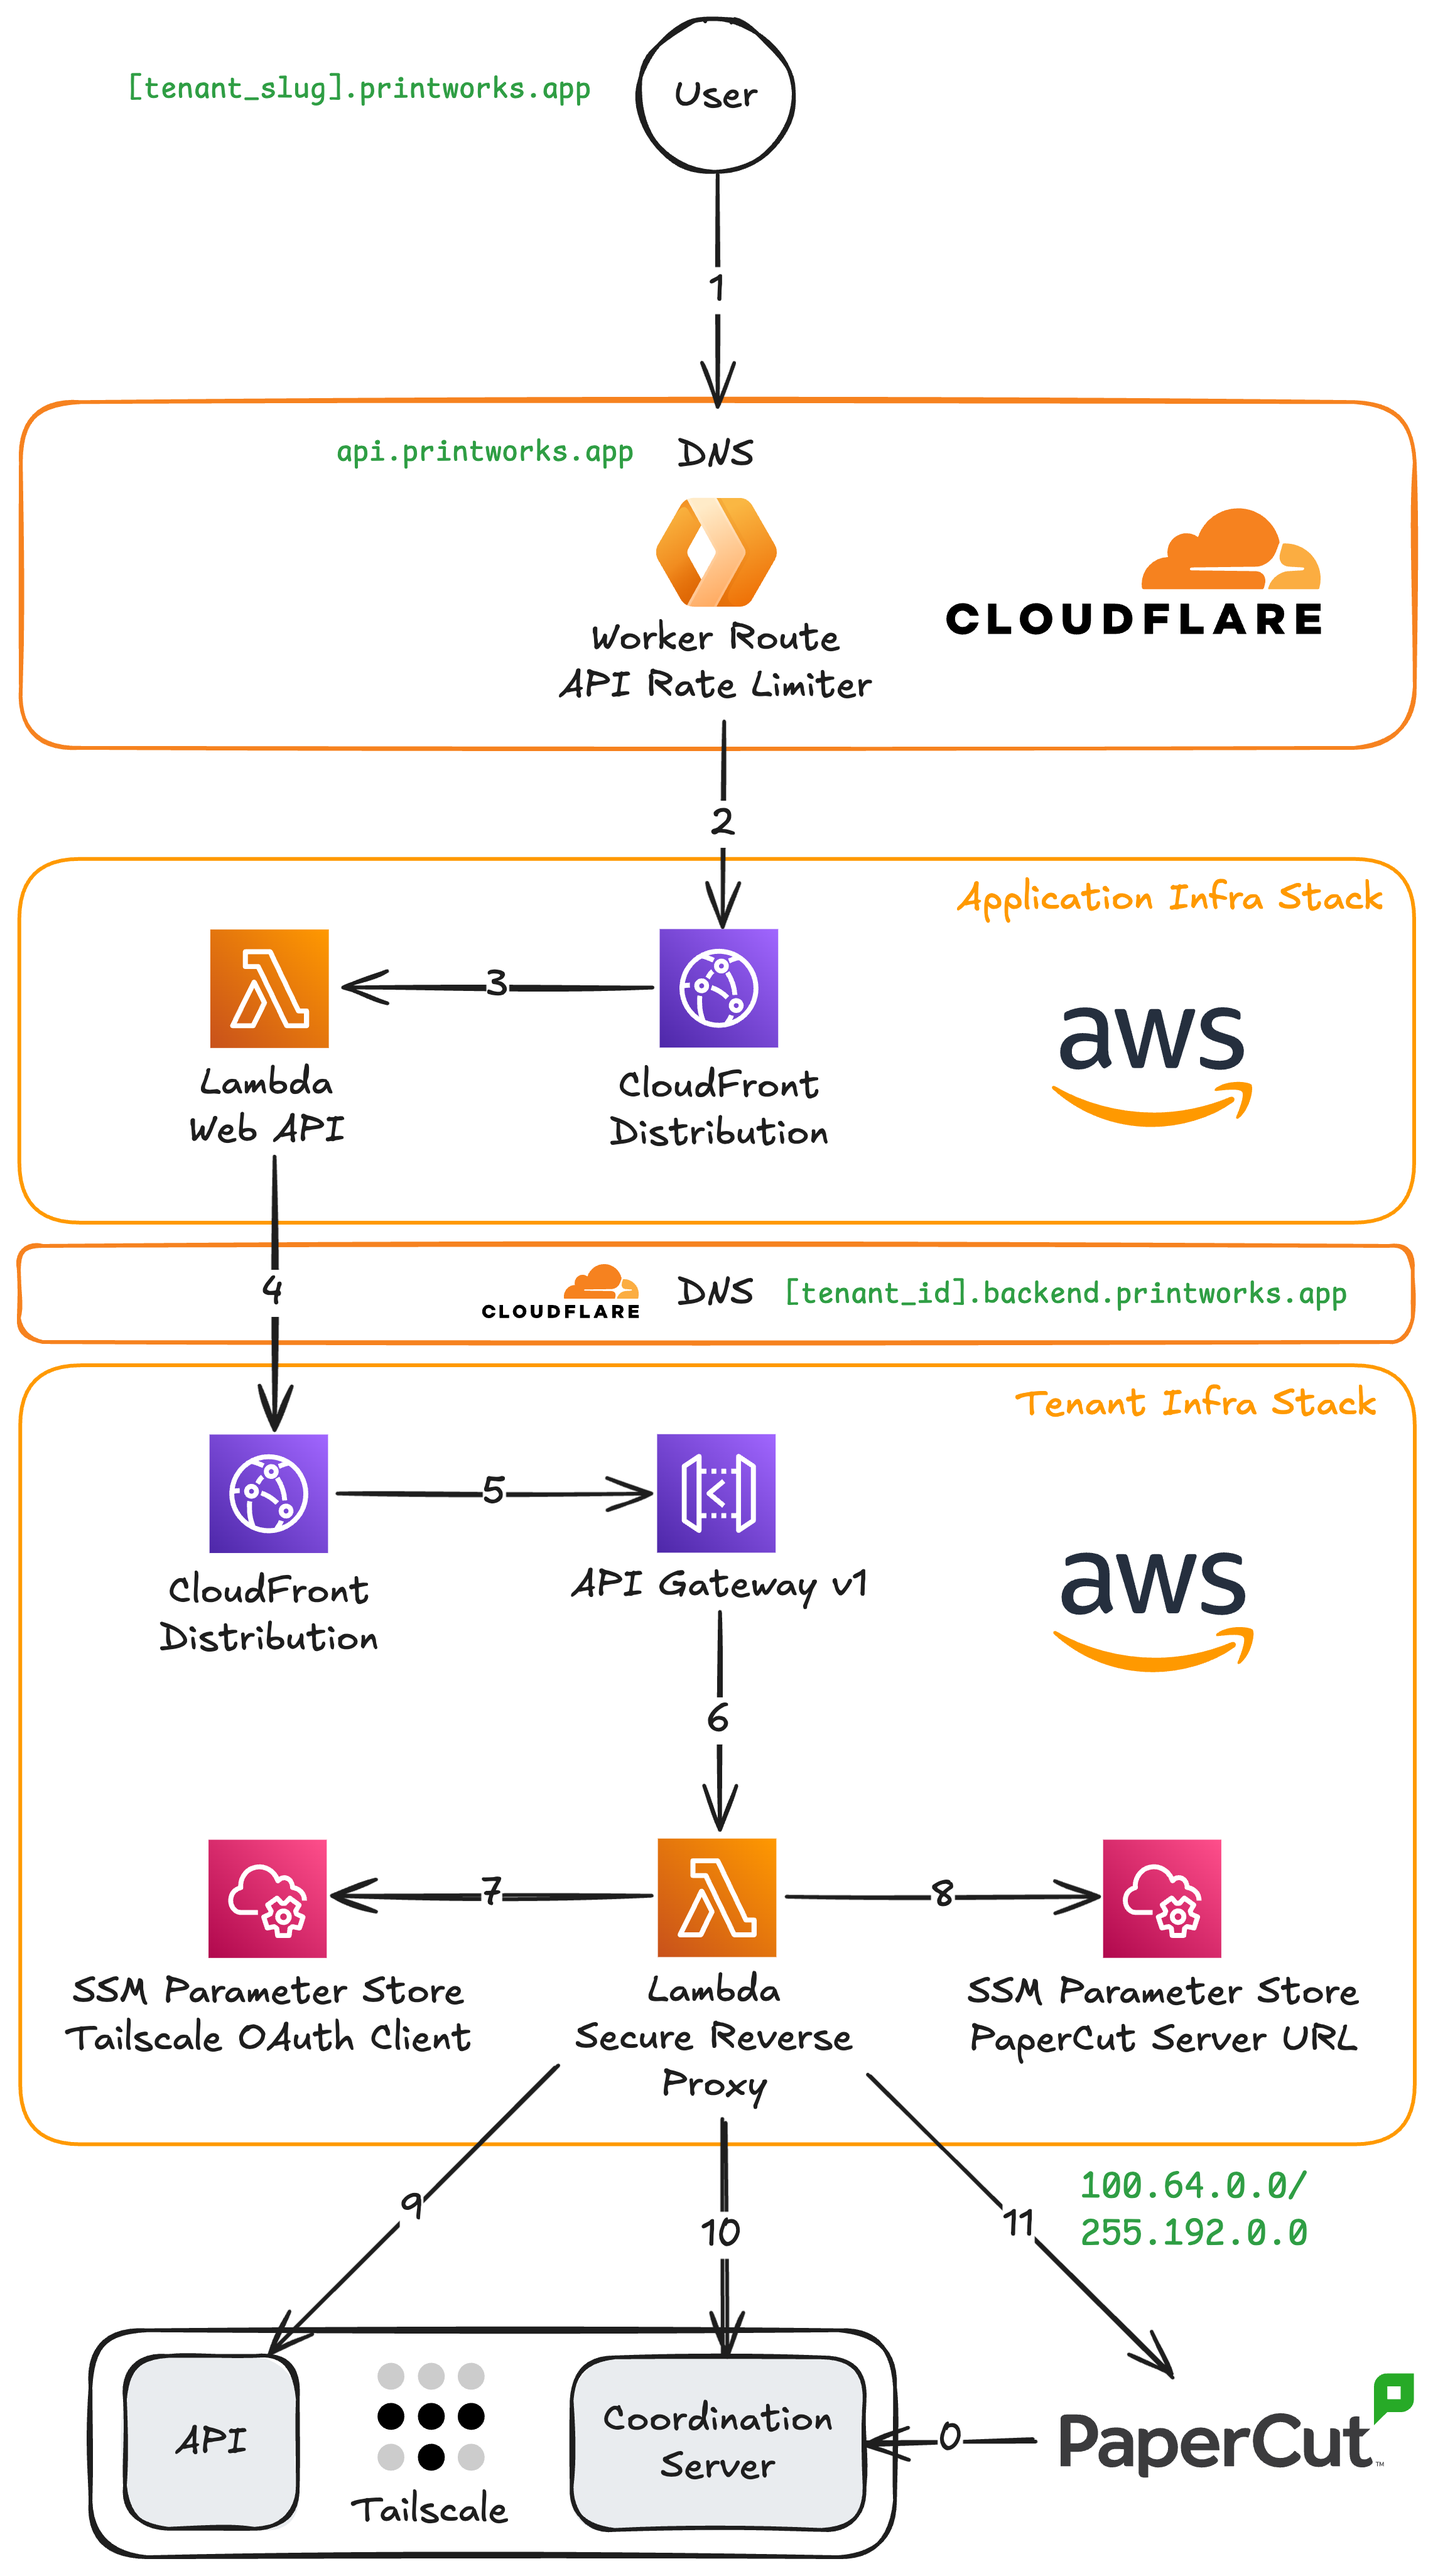
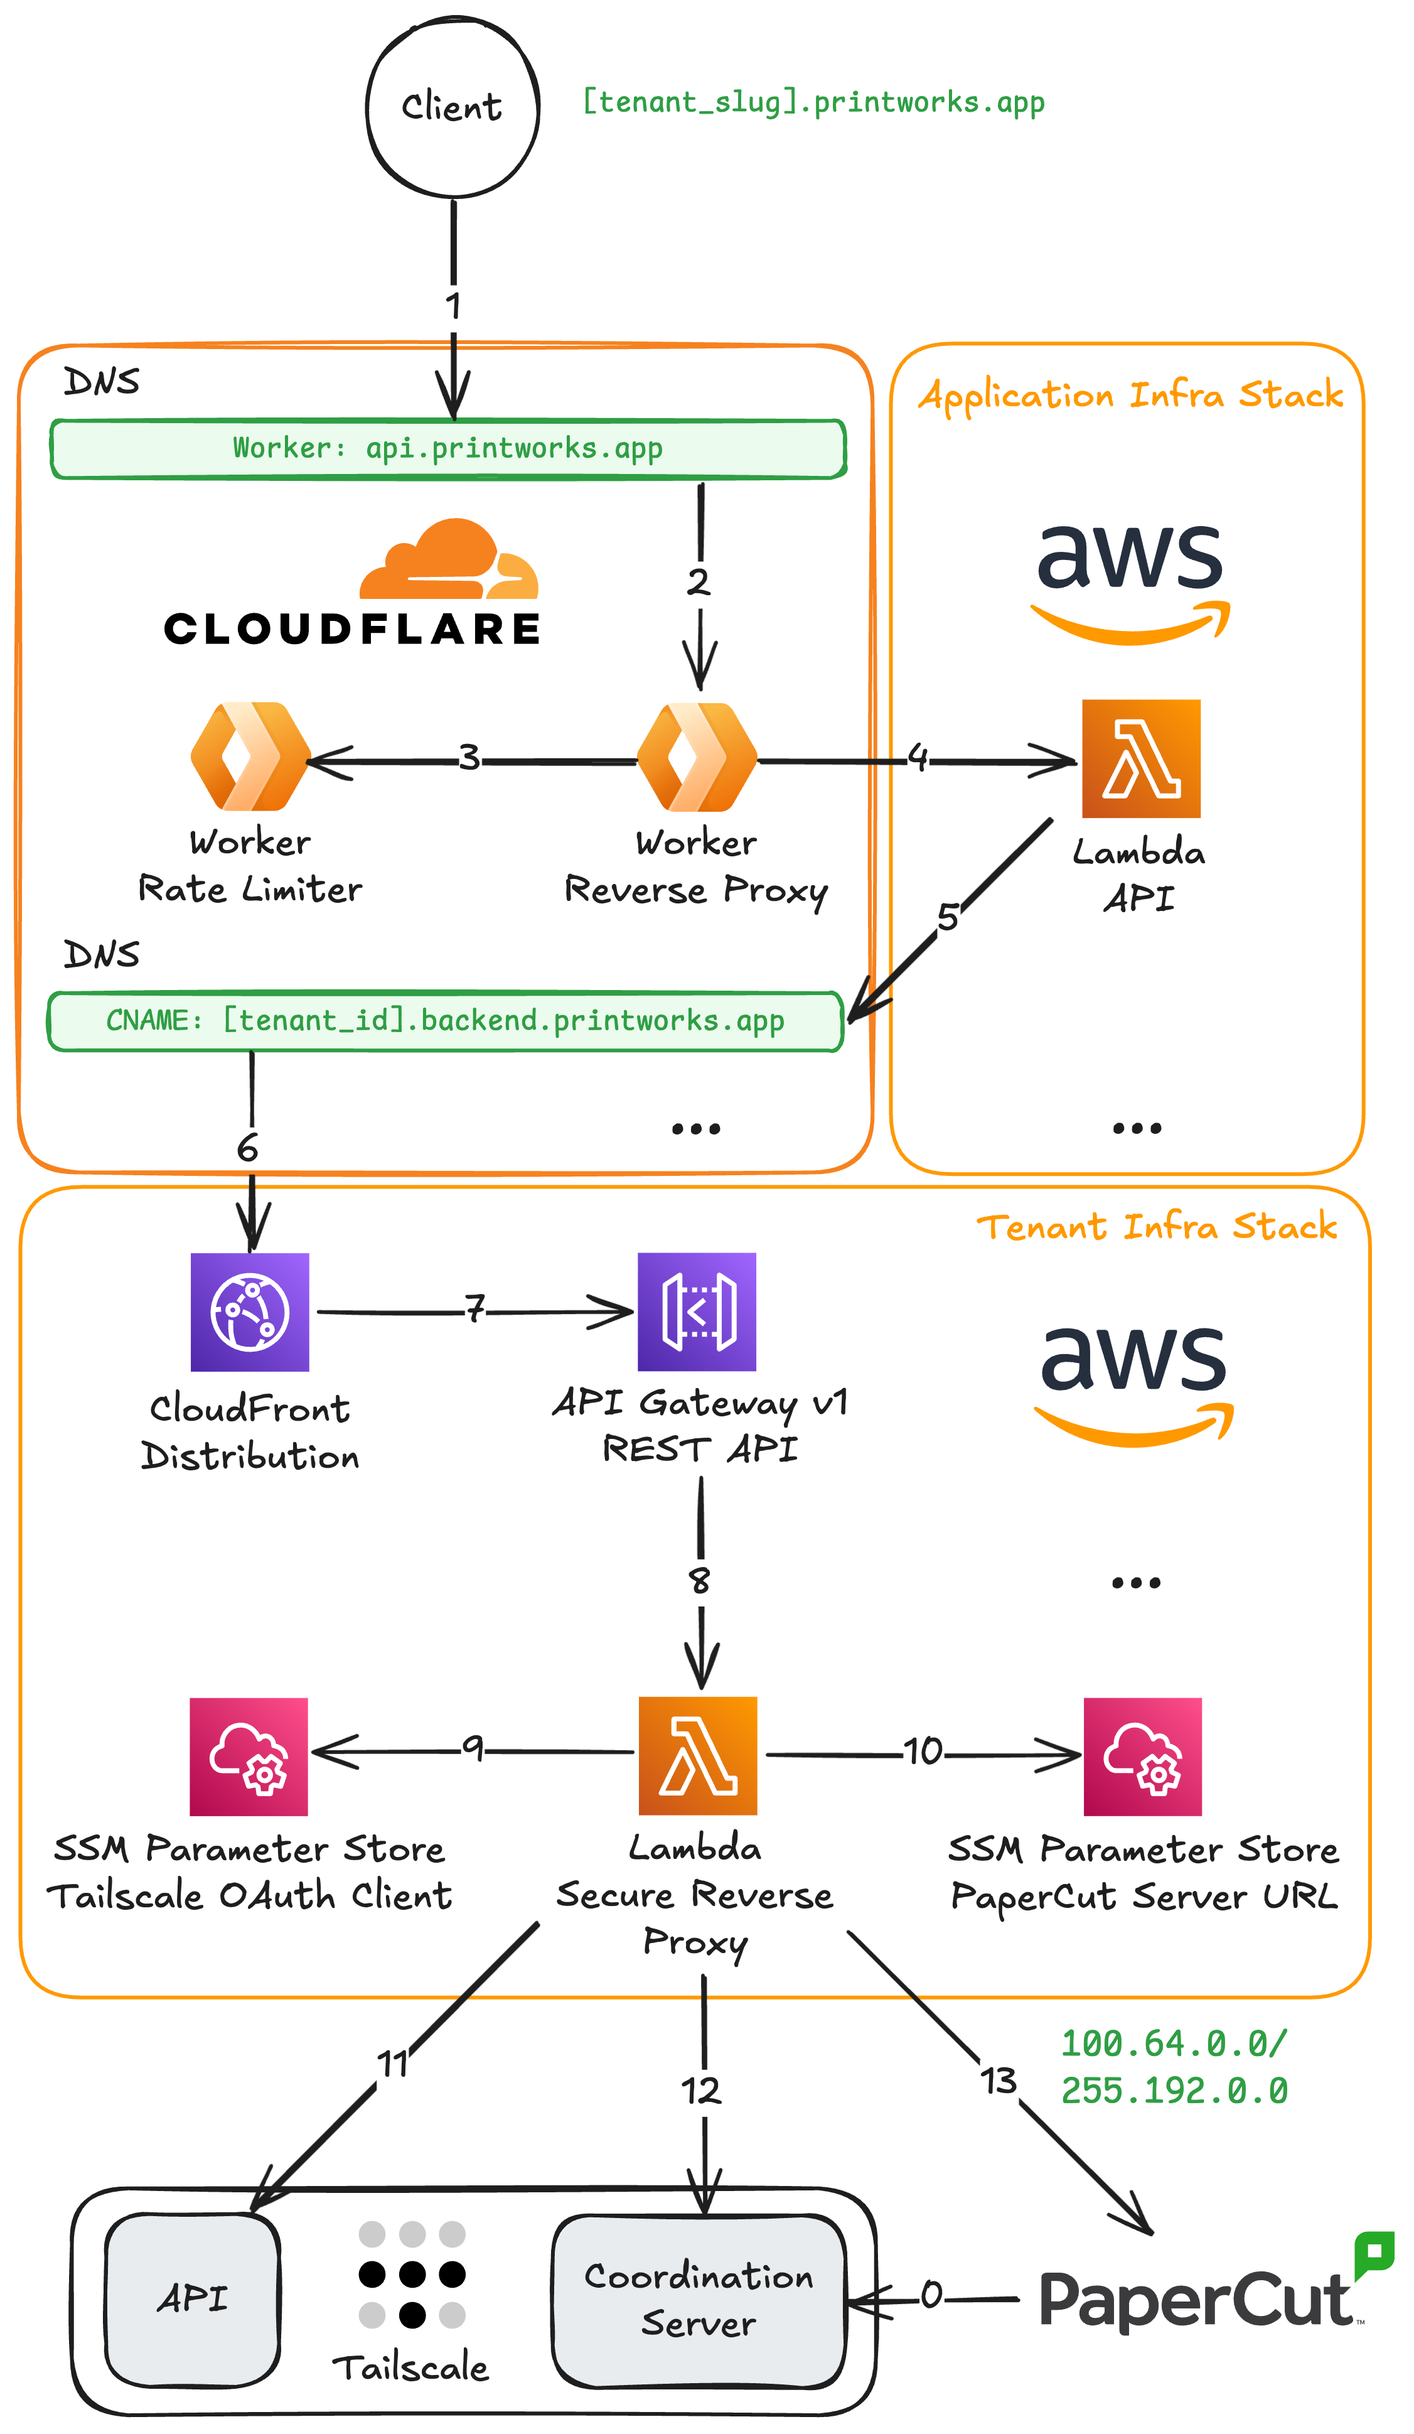
refactor: api reverse proxy

diff --git a/infra/api.ts b/infra/api.ts
@@ -1,12 +1,12 @@
 import { auth } from "./auth";
 import * as custom from "./custom";
 import { dsqlCluster } from "./db";
-import { apiFqdn, domainName } from "./dns";
+import { apiFqdn } from "./dns";
 import { appData, aws_, cloudfrontPrivateKey } from "./misc";
 import { infraQueue } from "./queues";
 import { appsyncEventApi } from "./realtime";
 
-export const apiFunction = new custom.aws.Function("ApiFunction", {
+export const api = new custom.aws.Function("Api", {
   handler: "packages/functions/node/src/api/index.handler",
   url: true,
   link: [
@@ -28,43 +28,26 @@ export const apiFunction = new custom.aws.Function("ApiFunction", {
   ],
 });
 
-export const api = new sst.aws.Router("Api", {
-  routes: {
-    "/*": apiFunction.url,
-  },
-  domain: {
-    name: apiFqdn,
-    dns: sst.cloudflare.dns(),
-  },
-});
-
-export const apiRateLimiter = new sst.cloudflare.Worker(
-  "ApiRateLimiterWorker",
-  {
-    handler: "packages/workers/src/api-rate-limiter.ts",
-    link: [auth],
-    url: false,
-    // NOTE: In the future when cloudflare terraform provider v5 is released and
-    // pulumi/sst supports it, we can remove this transform and bind the rate limiters
-    // directly to the worker instead of binding to another worker with the rate limiters.
-    transform: {
-      worker: {
-        serviceBindings: [
-          {
-            name: "API_RATE_LIMITERS",
-            service: "printworks-api-rate-limiters",
-          },
-        ],
-      },
+export const apiReverseProxy = new sst.cloudflare.Worker("ApiReverseProxy", {
+  handler: "packages/workers/src/api-reverse-proxy.ts",
+  link: [auth, api],
+  url: false,
+  domain: apiFqdn,
+  // NOTE: In the future when cloudflare terraform provider v5 is released and
+  // pulumi/sst supports it, we can remove this transform and bind the rate limiters
+  // directly to the worker instead of binding to another worker with the rate limiters.
+  transform: {
+    worker: {
+      serviceBindings: [
+        {
+          name: "API_RATE_LIMITERS",
+          service: "printworks-api-rate-limiters",
+        },
+      ],
     },
   },
-);
-new cloudflare.WorkerRoute("ApiRateLimiterWorkerRoute", {
-  pattern: $interpolate`${apiFqdn}/*`,
-  zoneId: cloudflare.getZoneOutput({ name: domainName.value }).zoneId,
-  scriptName: apiRateLimiter.nodes.worker.name,
 });
 
 export const outputs = {
-  api: api.url,
+  api: apiFqdn,
 };

diff --git a/packages/workers/src/api-reverse-proxy.ts b/packages/workers/src/api-reverse-proxy.ts
@@ -1,3 +1,4 @@
+import { createFetchProxy } from "@mjackson/fetch-proxy";
 import { createClient } from "@openauthjs/openauth/client";
 import { subjects } from "@printworks/core/auth/subjects";
 import { HttpError } from "@printworks/core/utils/errors";
@@ -10,6 +11,7 @@ import { HTTPException } from "hono/http-exception";
 import { logger } from "hono/logger";
 import { Resource } from "sst";
 
+import type { FetchProxy } from "@mjackson/fetch-proxy";
 import type { SubjectPayload } from "@openauthjs/openauth/subject";
 import type { ContentfulStatusCode } from "hono/utils/http-status";
 
@@ -24,7 +26,7 @@ const rateLimiter = createMiddleware(
               issuer: Resource.Auth.url,
             }).verify(subjects, token);
             if (verified.err) {
-              console.error("Token verification failed: ", verified.err);
+              console.error("Token verification failed:", verified.err);
               return false;
             }
 
@@ -36,7 +38,7 @@ const rateLimiter = createMiddleware(
           const subject: SubjectPayload<typeof subjects> = c.get("subject");
           const key = `${subject.properties.tenantId}#${subject.properties.id}`;
 
-          console.log("Rate limiting by user: ", key);
+          console.log("Rate limiting by user:", key);
           c.set(
             "rateLimitOutcome",
             await c.env.API_RATE_LIMITERS.byUser({ key }),
@@ -49,7 +51,7 @@ const rateLimiter = createMiddleware(
         const ip = getConnInfo(c).remote.address;
         if (!ip) throw new Error("Missing remote address");
 
-        console.log("Rate limiting by IP: ", ip);
+        console.log("Rate limiting by IP:", ip);
         c.set(
           "rateLimitOutcome",
           await c.env.API_RATE_LIMITERS.byIp({ key: ip }),
@@ -67,10 +69,17 @@ const rateLimiter = createMiddleware(
   ),
 );
 
+const proxy = createMiddleware((c, next) => {
+  c.set("proxy", createFetchProxy(Resource.Api.url));
+
+  return next();
+});
+
 export default new Hono()
   .use(logger())
   .use(rateLimiter)
-  .all("*", (c) => fetch(c.req.raw))
+  .use(proxy)
+  .all("*", (c) => c.get("proxy")(c.req.raw))
   .onError((e, c) => {
     console.error(e);
 
@@ -80,3 +89,9 @@ export default new Hono()
 
     return c.json("Internal server error", 500);
   });
+
+declare module "hono" {
+  interface ContextVariableMap {
+    proxy: FetchProxy;
+  }
+}

diff --git a/infra/infra.ts b/infra/infra.ts
@@ -1,5 +1,5 @@
 import { physicalName } from "../.sst/platform/src/components/naming";
-import { apiFunction } from "./api";
+import { api } from "./api";
 import * as custom from "./custom";
 import { dsqlCluster } from "./db";
 import {
@@ -113,7 +113,7 @@ const infraFunctionDir = normalizePath("packages/functions/python/infra");
 const infraFunctionResourceData = $util.jsonStringify(
   injectLinkables({
     AppData: appData,
-    ApiFunction: apiFunction,
+    Api: api,
     AppsyncEventApi: appsyncEventApi,
     Aws: aws_,
     Code: code,

diff --git a/packages/workers/api-rate-limiters/sst-env.d.ts b/packages/workers/api-rate-limiters/sst-env.d.ts
@@ -7,10 +7,6 @@ import "sst"
 declare module "sst" {
   export interface Resource {
     "Api": {
-      "type": "sst.aws.Router"
-      "url": string
-    }
-    "ApiFunction": {
       "arn": string
       "invokeArn": string
       "name": string
@@ -220,7 +216,7 @@ declare module "sst" {
 import * as cloudflare from "@cloudflare/workers-types";
 declare module "sst" {
   export interface Resource {
-    "ApiRateLimiterWorker": cloudflare.Service
+    "ApiReverseProxy": cloudflare.Service
   }
 }
 

diff --git a/packages/workers/sst-env.d.ts b/packages/workers/sst-env.d.ts
@@ -7,10 +7,6 @@ import "sst"
 declare module "sst" {
   export interface Resource {
     "Api": {
-      "type": "sst.aws.Router"
-      "url": string
-    }
-    "ApiFunction": {
       "arn": string
       "invokeArn": string
       "name": string
@@ -220,7 +216,7 @@ declare module "sst" {
 import * as cloudflare from "@cloudflare/workers-types";
 declare module "sst" {
   export interface Resource {
-    "ApiRateLimiterWorker": cloudflare.Service
+    "ApiReverseProxy": cloudflare.Service
   }
 }
 

diff --git a/sst-env.d.ts b/sst-env.d.ts
@@ -6,10 +6,6 @@
 declare module "sst" {
   export interface Resource {
     "Api": {
-      "type": "sst.aws.Router"
-      "url": string
-    }
-    "ApiFunction": {
       "arn": string
       "invokeArn": string
       "name": string
@@ -17,8 +13,9 @@ declare module "sst" {
       "type": "sst.aws.Function"
       "url": string
     }
-    "ApiRateLimiterWorker": {
+    "ApiReverseProxy": {
       "type": "sst.cloudflare.Worker"
+      "url": string
     }
     "AppData": {
       "domainName": {

diff --git a/packages/functions/python/infra/pulumi_program/components/realtime.py b/packages/functions/python/infra/pulumi_program/components/realtime.py
@@ -78,7 +78,7 @@ class Realtime(pulumi.ComponentResource):
                             principals=[
                                 aws.iam.GetPolicyDocumentStatementPrincipalArgs(
                                     type="AWS",
-                                    identifiers=[resource["ApiFunction"]["roleArn"]],
+                                    identifiers=[resource["Api"]["roleArn"]],
                                 )
                             ],
                             actions=["sts:AssumeRole"],
@@ -129,7 +129,7 @@ class Realtime(pulumi.ComponentResource):
                             principals=[
                                 aws.iam.GetPolicyDocumentStatementPrincipalArgs(
                                     type="AWS",
-                                    identifiers=[resource["ApiFunction"]["roleArn"]],
+                                    identifiers=[resource["Api"]["roleArn"]],
                                 ),
                                 aws.iam.GetPolicyDocumentStatementPrincipalArgs(
                                     type="AWS",

diff --git a/packages/functions/python/infra/pulumi_program/components/api.py b/packages/functions/python/infra/pulumi_program/components/api.py
@@ -797,7 +797,7 @@ class Api(pulumi.ComponentResource):
                                 aws.iam.GetPolicyDocumentStatementPrincipalArgs(
                                     type="AWS",
                                     identifiers=[
-                                        resource["ApiFunction"]["roleArn"],
+                                        resource["Api"]["roleArn"],
                                         resource["PapercutSync"]["roleArn"],
                                     ],
                                 )

diff --git a/packages/functions/python/infra/pulumi_program/components/storage.py b/packages/functions/python/infra/pulumi_program/components/storage.py
@@ -257,7 +257,7 @@ class Storage(pulumi.ComponentResource):
                     principals=[
                         aws.iam.GetPolicyDocumentStatementPrincipalArgs(
                             type="AWS",
-                            identifiers=[resource["ApiFunction"]["roleArn"]],
+                            identifiers=[resource["Api"]["roleArn"]],
                         )
                     ],
                     actions=["sts:AssumeRole"],
